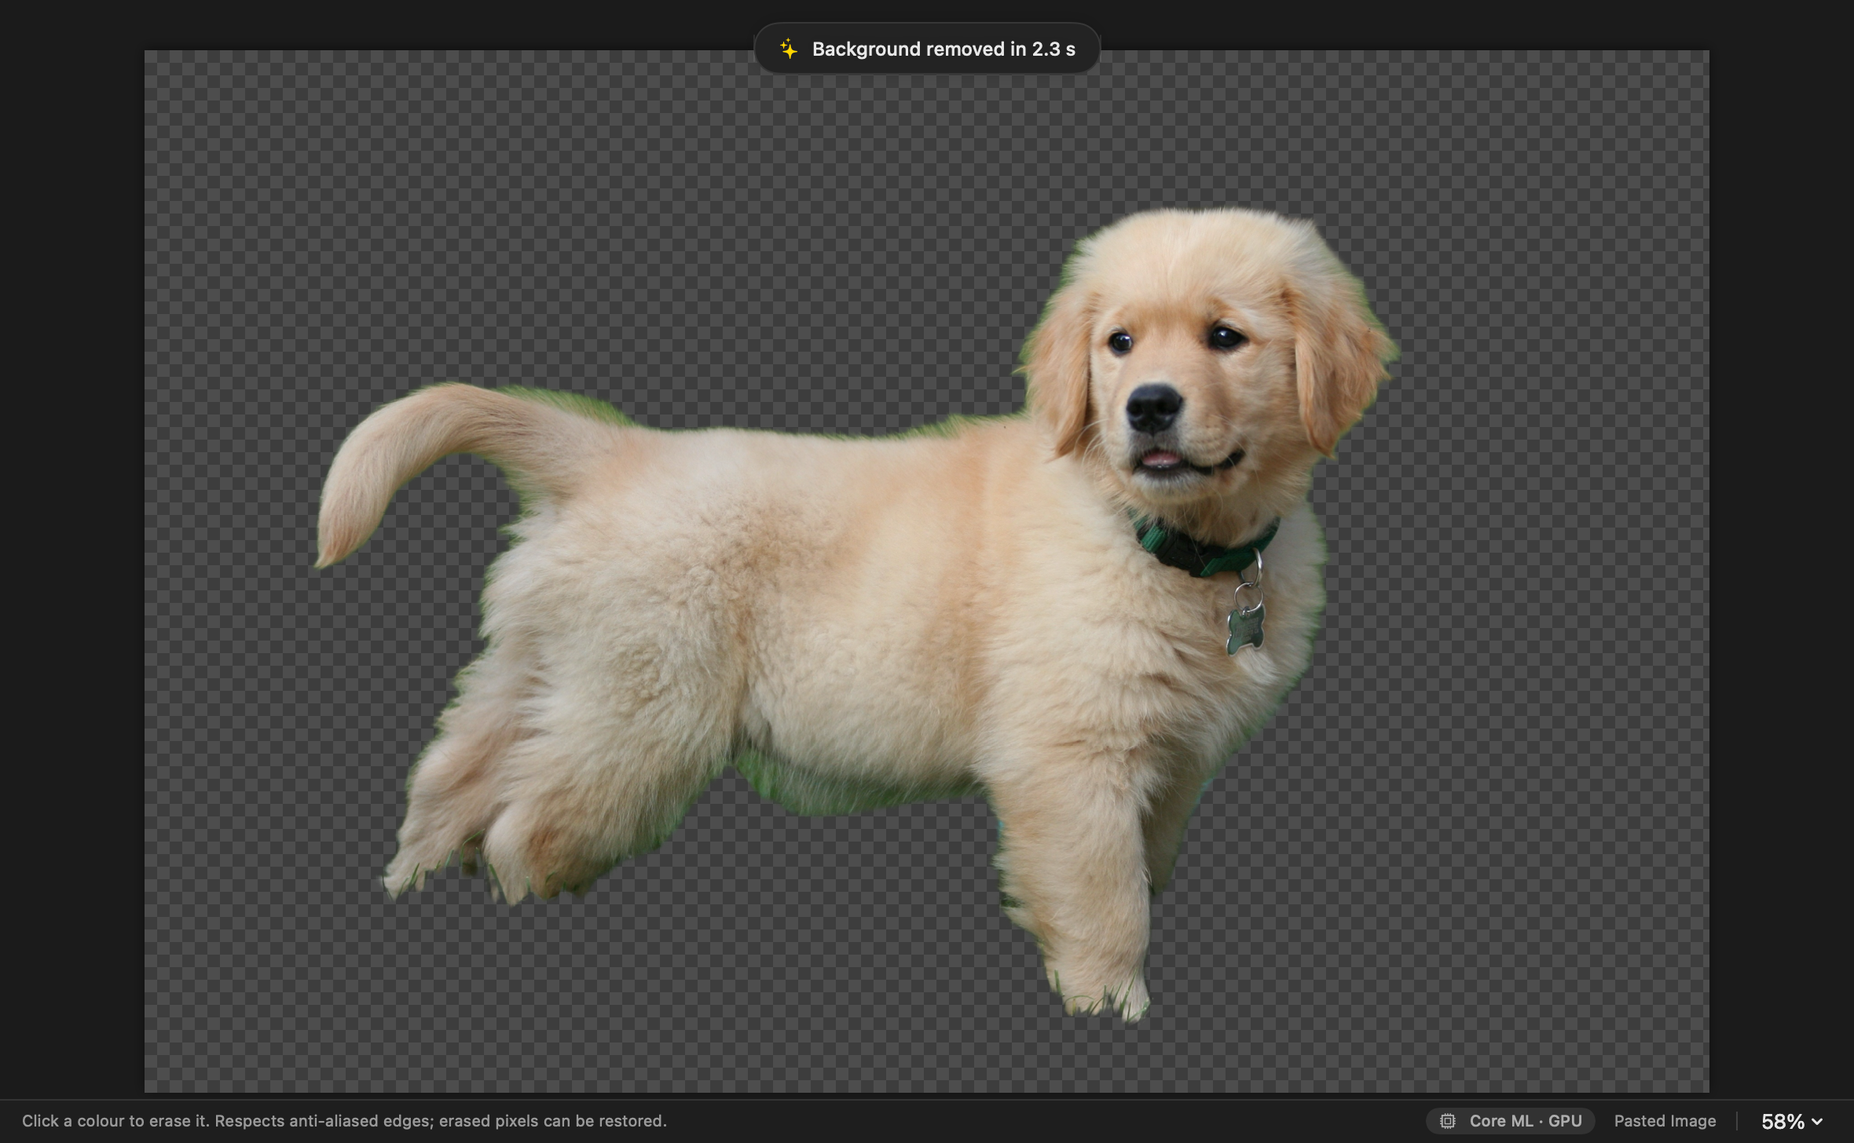
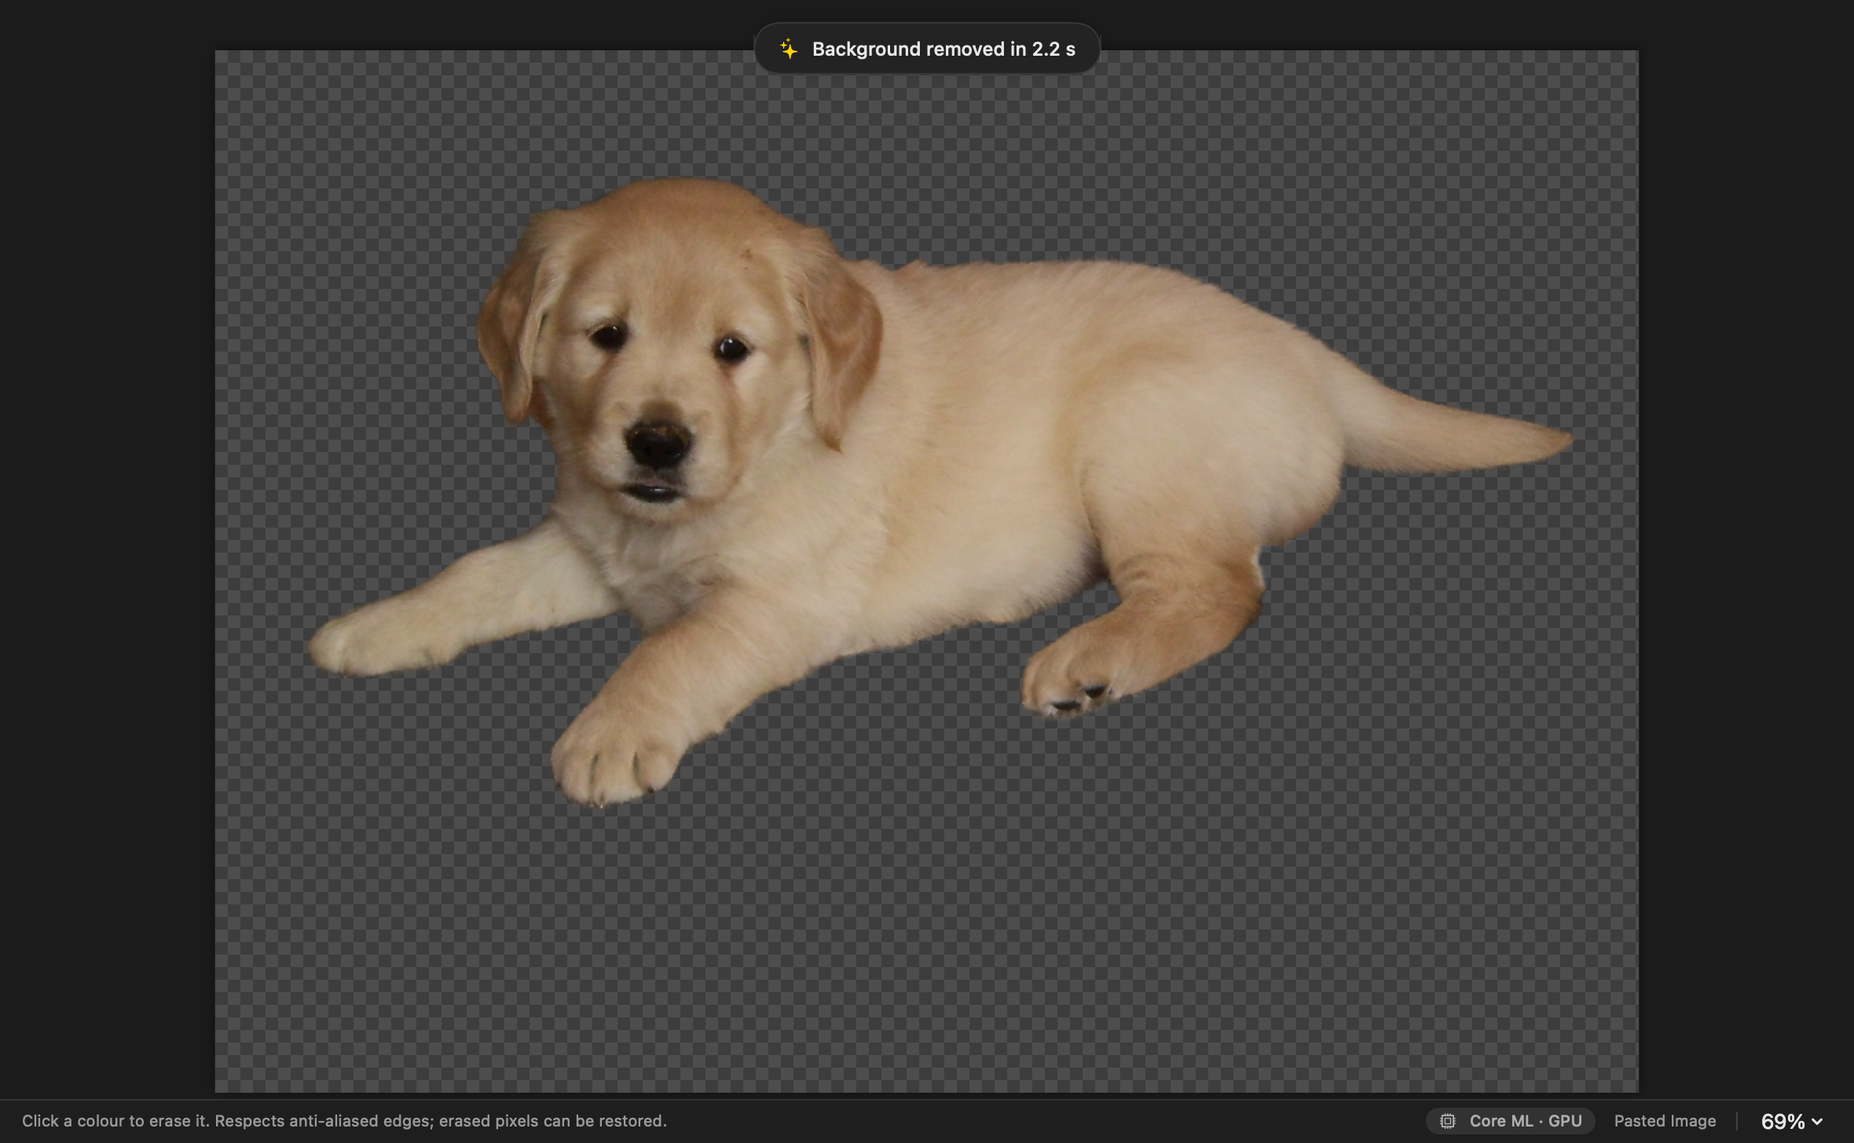
Mug title image, cleaner golden retriever puppy
Owner review of version 2:
- The title image is now a white enamel mug (knoe, CC BY 3.0) instead of the
  crankset. The wordmark sits just above the rim, so the mug covers only the
  lower part of the letters and "CutOut" stays readable before and after
  the peel. The phone wordmark is 22vw.
- The golden retriever is now a puppy lying on a plain carpet
  (SapphireDreamPhotography, CC BY 3.0). The previous one stood in grass that
  hid part of a hind leg; this cutout keeps all four legs and the tail.
- Both mattes are genuine CutOut engine output. The app windows were
  re-rendered by the app's self-test with the new puppy (21/21 passed).
- Fix: a dotted crack along the WebGL print's diagonal with square photos.
  fwidth() of the frame's distance field is 0 on its ridge, and smoothstep
  with equal edges is undefined, so the width is now clamped above 0.
- Fix: spur removal in the outline tracer erased the mug's handle; it now
  removes only short detours.
- Lighthouse now runs each page in a fresh Chrome. A reused headless Chrome
  stalled its screen capture on the last run, which gave the Guide a false
  90.
- Credits, provenance, share image and docs updated.

diff --git a/src/scripts/hero-gl.ts b/src/scripts/hero-gl.ts
@@ -65,7 +65,10 @@ out vec4 o;
 ${RRECT}
 void main() {
   float d = rrect(v_p, u_half, u_radius);
-  float inside = 1.0 - smoothstep(-fwidth(d), fwidth(d), d);
+  // fwidth can be exactly 0 on the rectangle's diagonal (its distance field's ridge); smoothstep
+  // with equal edges is undefined, so keep the antialiasing width above zero.
+  float fw = max(fwidth(d), 1e-4);
+  float inside = 1.0 - smoothstep(-fw, fw, d);
   if (inside <= 0.0) discard;
   vec2 cell = floor((v_p * vec2(1.0, -1.0) + u_half) / u_cell);
   float c = mod(cell.x + cell.y, 2.0);
@@ -140,7 +143,8 @@ ${RRECT}
 void main() {
   vec2 p = vec2((v_uv.x - 0.5) * u_ar, 0.5 - v_uv.y);
   float d = rrect(p, vec2(u_ar * 0.5, 0.5), u_radius);
-  float edge = 1.0 - smoothstep(-fwidth(d), fwidth(d), d);
+  float fw = max(fwidth(d), 1e-4); // see GROUND_FS
+  float edge = 1.0 - smoothstep(-fw, fw, d);
   vec2 tuv = v_uv * u_crop.xy + u_crop.zw;
   float matte = texture(u_subject, tuv).a;
   float a = edge * (1.0 - u_hole * matte) * u_alpha;

diff --git a/docs/TESTING.md b/docs/TESTING.md
@@ -10,7 +10,7 @@ Nothing has been deployed yet, so nothing below was measured on the live address
 |---|---|---|
 | Release-sync rules (fail-closed downloads) | `npm run test:unit` | 14/14 pass |
 | Types | `npm run check` | 0 errors, 0 warnings |
-| Build gate | `npm run build` → `verify-dist` | Pass: 4 pages; exact CSP; no inline script/style/handlers; every local link, image and anchor resolves; only allow-listed https hosts; no source maps or secrets; JS 5.3 KiB + hero WebGL 3.6 KiB, CSS 9.8 KiB gzip |
+| Build gate | `npm run build` → `verify-dist` | Pass: 4 pages; exact CSP; no inline script/style/handlers; every local link, image and anchor resolves; only allow-listed https hosts; no source maps or secrets; JS 5.3 KiB + hero WebGL 3.7 KiB, CSS 9.8 KiB gzip |
 | Browser tests (22 tests × project) | `npm test` | **Chromium, WebKit (Safari), iPhone 15 (WebKit), Pixel 7 (Chromium): 86 passed, 2 skipped** (mouse drag is skipped on touch profiles) |
 | Firefox | `npm test --project=firefox` | **Not verified locally**: Playwright's Firefox fails to start on macOS 27 ("Could not find profile folder"), also outside the sandbox. It runs in the *Check* workflow on Ubuntu. |
 | Accessibility | axe-core 4.14 (WCAG 2.0/2.1/2.2 A and AA rules) on home, guide, privacy, 404 | 0 violations in all four projects above |
@@ -41,22 +41,23 @@ What the browser tests cover:
 
 | Page | Device | Performance | Accessibility | Best practices | SEO | LCP | CLS | TBT |
 |---|---|---|---|---|---|---|---|---|
-| Home | Mobile | 91 | 100 | 100 | 100 | 3.3 s | 0 | 0 ms |
-| Home | Desktop | 100 | 100 | 100 | 100 | 0.7 s | 0 | 0 ms |
+| Home | Mobile | 94 | 100 | 100 | 100 | 3.0 s | 0 | 0 ms |
+| Home | Desktop | 99 | 100 | 100 | 100 | 0.6 s | 0 | 0 ms |
 | Guide | Mobile | 100 | 100 | 100 | 100 | 1.7 s | 0 | 0 ms |
 | Guide | Desktop | 100 | 100 | 100 | 100 | 0.4 s | 0 | 0 ms |
 
-Raw numbers are in `reports/lighthouse/summary.json`. Runs vary by a few points: one desktop run
-of the Guide scored 90 from a speed-index outlier, and the next run was 100.
+Raw numbers are in `reports/lighthouse/summary.json`. Runs vary by a point or two.
 
-The home page's mobile LCP element is the hero photo (55 KB AVIF at 960 px) under simulated slow
-4G. Version 1 scored 96 with a 2.7 s LCP from a text headline. Version 2's first impression is
-the photograph, so the image is the LCP. Two changes moved the score from 88 to 91:
+The Guide on desktop twice scored 90 with a 7–11 s Speed Index, even though it painted at 0.3 s.
+Its filmstrip was blank until the end of the trace. The cause was the measuring browser, not the
+page: `scripts/lighthouse.mjs` reused one headless Chrome for all four runs, and that page always
+ran last. Each run now gets a fresh browser, and the Guide scores 100.
 
-* The comparison samples became lazy-loaded.
-* The hero cutout lost its high fetch priority, so it no longer competes with the poster.
-
-The page transfers about 680 KiB on a phone, almost all of it images.
+The home page's mobile LCP element is the hero photo, an 8 KB AVIF of the mug at 960 px, at 3.0 s
+under simulated slow 4G (mostly render delay). Version 1 scored 96 with a 2.7 s LCP from a text
+headline; version 2's first impression is the photograph. The comparison samples are
+lazy-loaded, and the hero cutout has no high fetch priority, so it doesn't compete with the
+poster. The page transfers about 500 KiB on a phone, almost all of it images.
 
 ## Visual review
 
@@ -69,11 +70,21 @@ inspected. Fixed during the version 2 review:
     blur buffer; it is now a single extracted channel, with an assertion.
   * A translucent print mid-peel. The canvas now covers the viewport, and the print is pulled off
     screen.
-  * The wordmark hidden behind the round crankset. Its height is now set from the part's top edge
-    (`wordAt`).
-  * The phone crop hiding the wordmark. Phones now keep the part's own shape.
-* **Cut line:** the traced outline collapsed on closed loops, and the crankset's holes were
-  erased by spur removal. Both are fixed in `prepare-assets.mjs`.
+  * The wordmark hidden behind the subject. Its height is now set from the subject's top edge
+    (`wordAt`). For the mug, the word sits just above the rim, so the mug covers only the lower
+    part of the letters.
+  * The phone crop hiding the wordmark. Phones now keep the photo's own shape.
+  * A dotted crack along the print's diagonal, which appeared only with a square photo (the mug).
+    `fwidth()` of the frame's distance field is exactly 0 on its ridge, and `smoothstep` with equal
+    edges is undefined there. Both shaders now clamp the width above 0.
+* **Cut line:**
+  * The traced outline collapsed on closed loops; fixed in `prepare-assets.mjs`.
+  * Spur removal erased the crankset's holes, and later the mug's handle. It now runs only on
+    the outer edge and removes only short detours (under 160 px).
+* **Photos (owner review):**
+  * The first golden retriever stood in grass that hid part of a hind leg. It was replaced by a
+    puppy on a plain carpet, whose cutout keeps all four legs and the tail.
+  * The crankset as the first image was replaced by a mug.
 * **Controls:**
   * The *Remove background* button appeared in motion mode, because `.btn`'s `display` overrode
     `hidden`. A global `[hidden]` rule fixes it.
@@ -90,4 +101,4 @@ inspected. Fixed during the version 2 review:
   axe and the slider and tab tests.
 * The live GitHub Pages deployment, CodeQL and Dependabot, which start after the first push.
 * Link previews in iMessage and LinkedIn, which need the public URL. `og.png` (1200 × 630, the
-  wordmark with the crankset cutout) and all Open Graph tags are present.
+  wordmark with the mug cutout) and all Open Graph tags are present.

diff --git a/docs/DESIGN.md b/docs/DESIGN.md
@@ -25,12 +25,15 @@ typefaces or code were taken from any of them.
 | Idea | A black stage. A giant **CutOut** wordmark sits *between* a photo and its subject: the subject is in front of the word, the background is behind it. Scrolling traces the cut, the subject lifts and the print peels off the screen. | A photographer's light table: prints slide in, the cut is drawn with a scalpel cursor. | The photo, matte and cutout float apart in 3D depth as you scroll. |
 | Epic, at a glance | Yes: the depth trick reads instantly and only works *because* the background was removed. | Calm, editorial; closer to version 1. | Spectacular but a common "3D product" trope. |
 | Truthful | Uses CutOut's real matte for the hole, the cut line and the subject. | Same. | Needs invented intermediate layers. |
-| Cost | One small WebGL 2 canvas (3.6 KiB gzip), DOM layers for the rest. | CSS only. | Three.js or similar, heavier on phones. |
+| Cost | One small WebGL 2 canvas (3.7 KiB gzip), DOM layers for the rest. | CSS only. | Three.js or similar, heavier on phones. |
 | Distinct from ENG | Completely (dark, centred, type-as-image). | Partly (light, editorial). | Yes. |
 
-**Decision: A.** The hero subject is a machined bicycle crankset, not an animal: the owner asked
-for a non-living subject for the title, and its chainring gaps show CutOut handling holes, which
-a solid object could not. The golden retriever puppy leads the results section instead.
+**Decision: A.** The hero subject is a white enamel mug, which follows the owner's direction. It is
+a simple, non-living object with a clean silhouette, and the gap inside its handle is a real hole.
+A machined crankset was tried first, but the owner found it too busy as the first image, so it
+now appears only as the *Gaps* sample. The golden retriever puppy leads the results section. It
+is a puppy lying on a plain carpet, chosen so that every leg is visible: the first choice stood
+in grass that hid part of a hind leg.
 
 ## Art direction
 
@@ -49,7 +52,7 @@ a solid object could not. The golden retriever puppy leads the results section i
 
 | Section | What happens | Scroll length |
 |---|---|---|
-| Hero | Crankset photo on the stage, the wordmark behind its subject (difference blend). Scroll: marching ants trace the outline (outer edge plus 15 inner holes), the subject lifts with a shadow, the print curls back from its corner (white paper underside) and is pulled off the screen, leaving the subject on the transparency grid. | 300 svh (240 on phones) |
+| Hero | Mug photo on the stage. The wordmark sits behind the mug, which covers only the lower part of the letters, so *CutOut* stays readable (difference blend). Scroll: marching ants trace the outline (outer edge plus the handle's hole), the subject lifts with a shadow, the print curls back from its corner (white paper underside) and is pulled off the screen, leaving the subject on the transparency grid. | 300 svh (240 on phones) |
 | Results (`#compare`) | *Every hair. Every thread.* A before/after slider with four real samples (Fur: golden retriever puppy; Threads: hex bolts; Gaps: the crankset; Seeds: a dandelion), four backdrops and a zoom. | normal |
 | Keys | *Paste. Remove. Copy.* pinned; a ⌘ key with the letter rolling V → B → C, the bolt photo dissolving into its cutout, then shrinking away with a "Copied" toast. | 330 svh (300) |
 | The app (`#app`) | A genuine CutOut window rises and tilts upright, then swaps from the simple view to the full tool panel. | 260 svh (220) |
@@ -125,8 +128,8 @@ The Guide, privacy and 404 pages use the same tokens through compatibility alias
 
 ### Responsive behaviour
 
-* **Phones:** the hero keeps the part's own shape so the whole crankset stays visible. The
-  wordmark sits on the frame's top edge, and the headline and a full-width button sit at the
+* **Phones:** the hero keeps the photo's square shape so the whole mug stays visible. The
+  wordmark sits behind the rim at 22vw, and the headline and a full-width button sit at the
   bottom. The slider frame is 4:5. The key sequence puts the image above the words.
 * **Tablets and up:** two-column scenes from 820 px. The hero frame grows to 1200 px.
 * Touch: every control is at least 44 px. The slider takes horizontal drags while vertical swipes

diff --git a/docs/MAINTENANCE.md b/docs/MAINTENANCE.md
@@ -49,12 +49,12 @@ showing the golden retriever photo. To refresh them without changing any app cod
 
 **The hero** is set by `HERO` in `scripts/prepare-assets.mjs`: `id` (a file pair in
 `design/sources/`), `alt`, `widths`, and `wordAt`. `wordAt` is how far down the subject's bounding
-box the wordmark's centre sits (0.12 for the crankset, so the word crosses the top of the
-chainrings). The script writes the photo, the cutout, the shadow, the traced outline (outer edge
+box the wordmark's centre sits. It is −0.05 for the mug, putting the centre just above the rim so
+the mug covers only the lower part of the letters and the word stays readable. The script writes the photo, the cutout, the shadow, the traced outline (outer edge
 plus holes) and `hero.css` (`--ar`, `--word-y`). The hero should be a non-living object with a
-clear silhouette and some holes or gaps. After changing it, run `node scripts/make-og.mjs`, check
-the phone layout (the word sits on the frame's top edge there), and update the alt text in
-`src/components/Hero.astro`.
+clear silhouette, ideally with a hole or gap, photographed on a plain background. After changing
+it, run `node scripts/make-og.mjs`, check desktop and phone screenshots (`scripts/shoot-page.mjs`)
+before and after the peel, and update the alt text in `src/components/Hero.astro`.
 
 ## Adding or changing a platform
 
@@ -87,8 +87,8 @@ let *Check* pass, look at the preview. Keep versions exact. See `docs/DEPENDENCI
 * GitHub Pages cannot send security headers; the CSP is a `<meta>` tag (see `docs/SECURITY.md`).
 * Firefox could not be launched by Playwright on the development Mac (macOS 27); Firefox runs in
   CI on Ubuntu.
-* Lighthouse mobile performance on the home page is ≈ 90: the LCP is the hero photo (55 KB AVIF)
-  under simulated slow 4G (≈ 3.3 s). A smaller first frame would trade image quality for it.
+* Lighthouse mobile performance on the home page is 94: the LCP is the hero photo (an 8 KB AVIF)
+  at ≈ 3.0 s under simulated slow 4G, mostly render delay while the stylesheet and font arrive.
 * The scroll scenes and the WebGL print were verified in headless Chromium and WebKit (software
   GL); a hands-on pass on real iPhone/Android hardware and Safari is still recommended.
 * The app windows are offscreen renders produced by the app's self-test (the development Mac's

diff --git a/design/sources/README.md b/design/sources/README.md
@@ -5,14 +5,17 @@ photograph plus the alpha matte CutOut's engine produced for it.
 
 | File | Photograph | Author | Licence | Source |
 |---|---|---|---|---|
-| `crankset.jpg` | Crank Set (1803 × 1788) — the home page's title image | Romantiker | CC BY-SA 3.0 (relicensed from GFDL) | https://commons.wikimedia.org/wiki/File:Crank_Set.jpg |
-| `golden.jpg` | Golden Retriever puppy standing (3456 × 2304, stored at 2400 px) | Scott | CC BY 2.0 | https://commons.wikimedia.org/wiki/File:Golden_Retriever_puppy_standing.jpg |
+| `mug.jpg` | Enamel mug (1974 × 1974) — the home page's title image | knoe | CC BY 3.0 | https://commons.wikimedia.org/wiki/File:Enamel_mug.jpg |
+| `crankset.jpg` | Crank Set (1803 × 1788) | Romantiker | CC BY-SA 3.0 (relicensed from GFDL) | https://commons.wikimedia.org/wiki/File:Crank_Set.jpg |
+| `golden.jpg` | Golden Retriever Puppy in the House (2641 × 1935) | SapphireDreamPhotography | CC BY 3.0 | https://commons.wikimedia.org/wiki/File:Golden_Retriever_Puppy_in_the_House.JPG |
 | `bolt.jpg` | Hex head bolt (rendered by Commons from the 2070 px TIFF at 1920 px) | Susan Wright | Public domain | https://commons.wikimedia.org/wiki/File:Hex_head_bolt.tif |
 | `bolts.jpg` | Sechskantschrauben -- 2020 -- 3985-8 (stored at 2400 px) | Dietmar Rabich | CC BY-SA 4.0 | https://commons.wikimedia.org/wiki/File:Sechskantschrauben_--_2020_--_3985-8.jpg |
 | `dandelion.jpg` | Seed head of a dandelion, specifically Taraxacum officinale (1440 × 1800) | Adesolive | CC0 1.0 | https://commons.wikimedia.org/wiki/File:Seed_head_of_a_dandelion,_specifically_Taraxacum_officinale.jpg |
 
 Licences and authors were read from the Wikimedia Commons file pages (API `extmetadata`, and the
-page text where the author field is empty) on 4 November 2026. All stored files are re-encoded
+page text where the author field is empty) on 4 November 2026. `golden.jpg` and `mug.jpg` were
+replaced later that day at the owner's request (the earlier puppy stood in grass that hid part of
+a hind leg; the title image changed from the crankset to a mug). All stored files are re-encoded
 without metadata (no EXIF/GPS).
 
 ## How the mattes were made

diff --git a/docs/HANDBOOK_MATRIX.md b/docs/HANDBOOK_MATRIX.md
@@ -30,7 +30,7 @@ Operating rule 1), and that is how they were treated.
 
 | Resource | Status | Reasoning |
 |---|---|---|
-| Three.js / React Three Fiber (§4) | Studied, not adopted | The hero needs one subdivided plane with a curl vertex shader and one ground quad (the cutout, wordmark and cut line are DOM/SVG layers so the depth effect is exact). Raw WebGL2 does this in 3.6 KiB gzip; Three.js would add ~130 KB gzip for features the scene does not use. The handbook's own caution ("watch loading size and mobile performance") decided it. |
+| Three.js / React Three Fiber (§4) | Studied, not adopted | The hero needs one subdivided plane with a curl vertex shader and one ground quad (the cutout, wordmark and cut line are DOM/SVG layers so the depth effect is exact). Raw WebGL2 does this in 3.7 KiB gzip; Three.js would add ~130 KB gzip for features the scene does not use. The handbook's own caution ("watch loading size and mobile performance") decided it. |
 | GSAP + ScrollTrigger (§4) | Studied, not adopted | Considered again for version 2's pinned scenes. Scroll progress is still one number per scene plus named sub-ranges; `scenes.ts` (0.9 KiB gzip) computes them with a critically damped follower and CSS `position: sticky` does the pinning. GSAP's Standard No-Charge licence is not an OSI licence; avoiding it keeps the website's dependency licences simple. |
 | Motion (motion.dev) (§4) | Studied, not adopted | Its spring model inspired the slider's settle animation (implemented in 30 lines). Adding the library was not justified for two springs. |
 | Anime.js (§4) | Studied, not adopted | SVG/timeline needs are covered by CSS transitions and the WebGL scene. |

diff --git a/README.md b/README.md
@@ -4,10 +4,10 @@
 
 The website for **CutOut**, the free, offline background-removal and image editor for Mac.
 A static [Astro](https://astro.build/) site on a black, cinematic stage, hosted free on GitHub
-Pages. In the opening scene a machined crankset sits in front of a giant **CutOut** wordmark
-while its background sits behind it. As you scroll, marching ants trace CutOut's own matte, the
-part lifts, and the photo peels off the screen like a print (raw WebGL 2, 3.6 KiB). After that
-come real before/after results (a golden retriever puppy, threaded bolts, the crankset, a
+Pages. In the opening scene a white enamel mug sits in front of a giant **CutOut** wordmark while
+its background sits behind it. As you scroll, marching ants trace CutOut's own matte, the mug
+lifts, and the photo peels off the screen like a print (raw WebGL 2, 3.7 KiB). After that come
+real before/after results (a golden retriever puppy, threaded bolts, a machined crankset, a
 dandelion), a pinned *Paste. Remove. Copy.* sequence and genuine app windows. Every image is
 CutOut's unretouched output.
 

diff --git a/docs/SECURITY.md b/docs/SECURITY.md
@@ -10,7 +10,7 @@ attacked; all tests ran locally.
 |---|---|
 | Hosting | GitHub Pages, static files only. No server code, database, forms, cookies or accounts. |
 | Runtime origins | One: the site itself. No CDNs, fonts, analytics or third-party scripts. |
-| Client JavaScript | Own code only: 5.3 KiB site + 3.6 KiB WebGL hero (gzip, the latter loaded on first interaction). No framework runtime. |
+| Client JavaScript | Own code only: 5.3 KiB site + 3.7 KiB WebGL hero (gzip, the latter loaded on first interaction). No framework runtime. |
 | Build-time network | `scripts/sync-release.mjs` reads `api.github.com` (repository metadata, releases) and the release's `SHA256SUMS.txt`. Read-only. |
 | CI/CD | GitHub Actions: `check.yml` (PRs/branches), `deploy.yml` (main → Pages), `codeql.yml`. |
 | Secrets | None. Workflows use only the automatic `GITHUB_TOKEN`, scoped per job. |

diff --git a/docs/ARCHITECTURE.md b/docs/ARCHITECTURE.md
@@ -75,7 +75,7 @@ The blend only reaches layers in the same stacking context, so `.hero__stage` de
 `transform`, `filter` or `opacity`.
 
 * `hero.ts` picks the mode, adds pointer parallax (fine pointers), and loads `hero-gl.ts`
-  (separate chunk, 3.6 KiB gzip) on the visitor's first scroll, wheel, pointer, key or touch,
+  (separate chunk, 3.7 KiB gzip) on the visitor's first scroll, wheel, pointer, key or touch,
   never during load. That keeps total blocking time at 0 ms.
 * `hero-gl.ts` draws two programs. **ground** is the checker inside a rounded rectangle, with a
   contact shadow along the fold. **sheet** is a 96 × 96 grid whose vertex shader curls the corner
